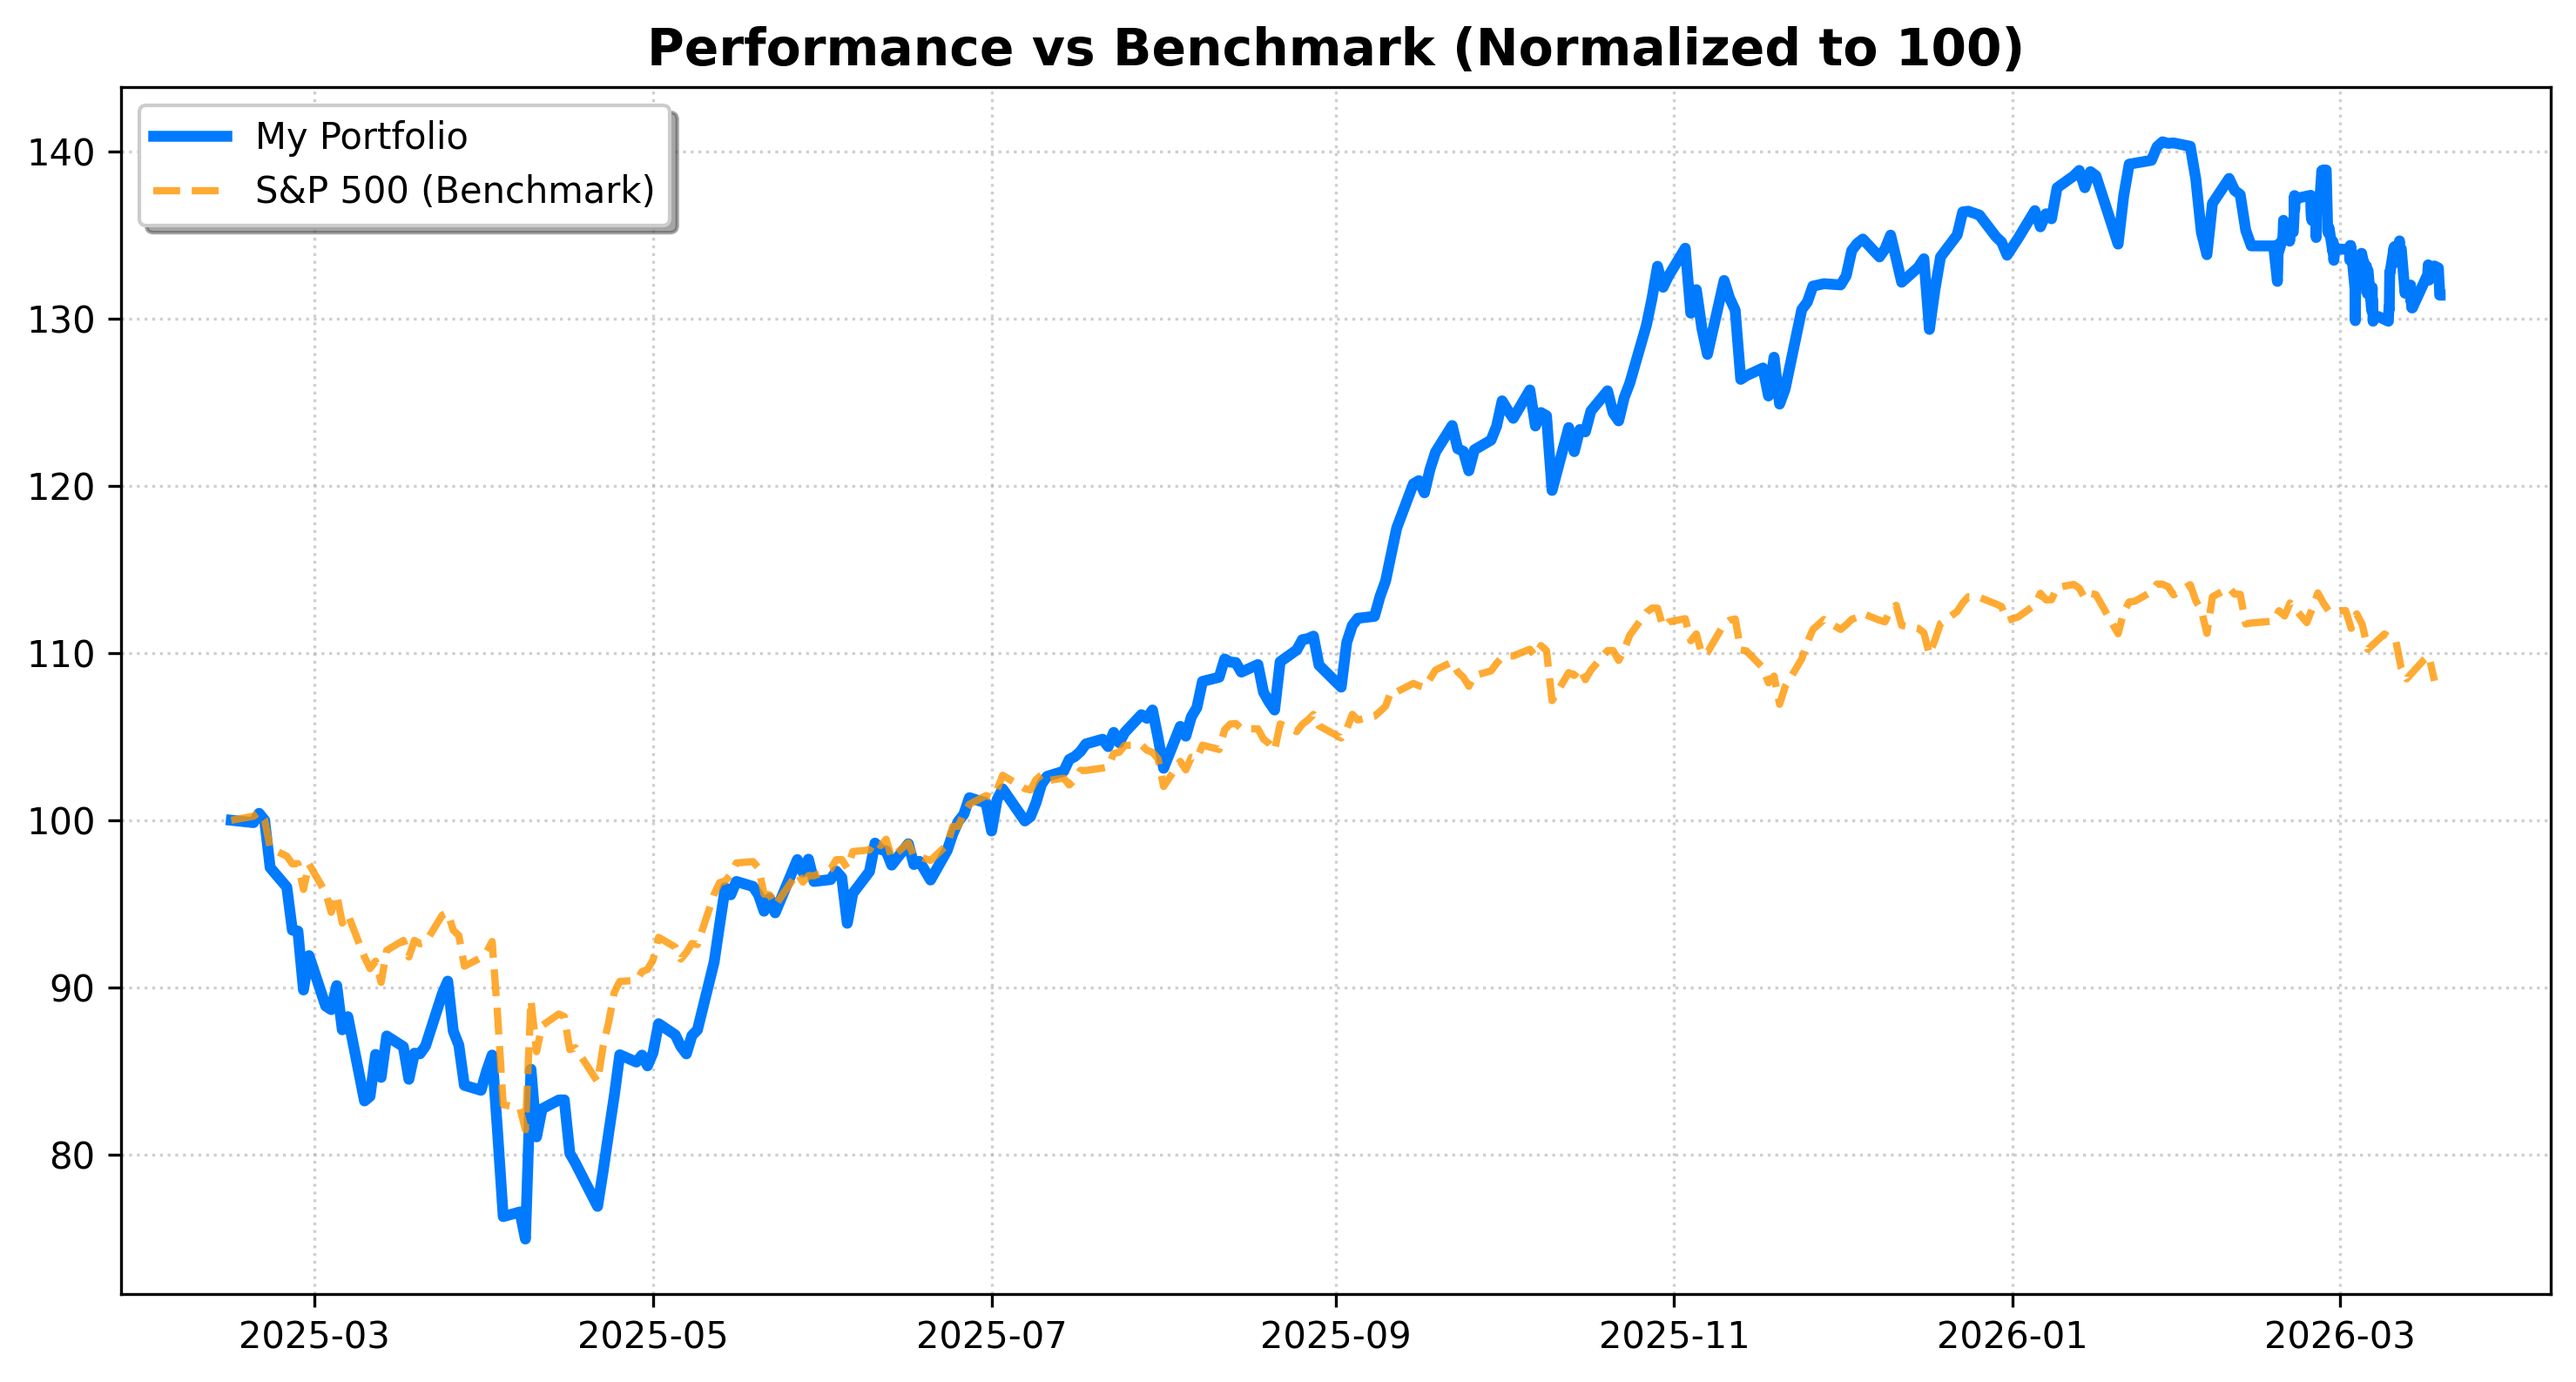
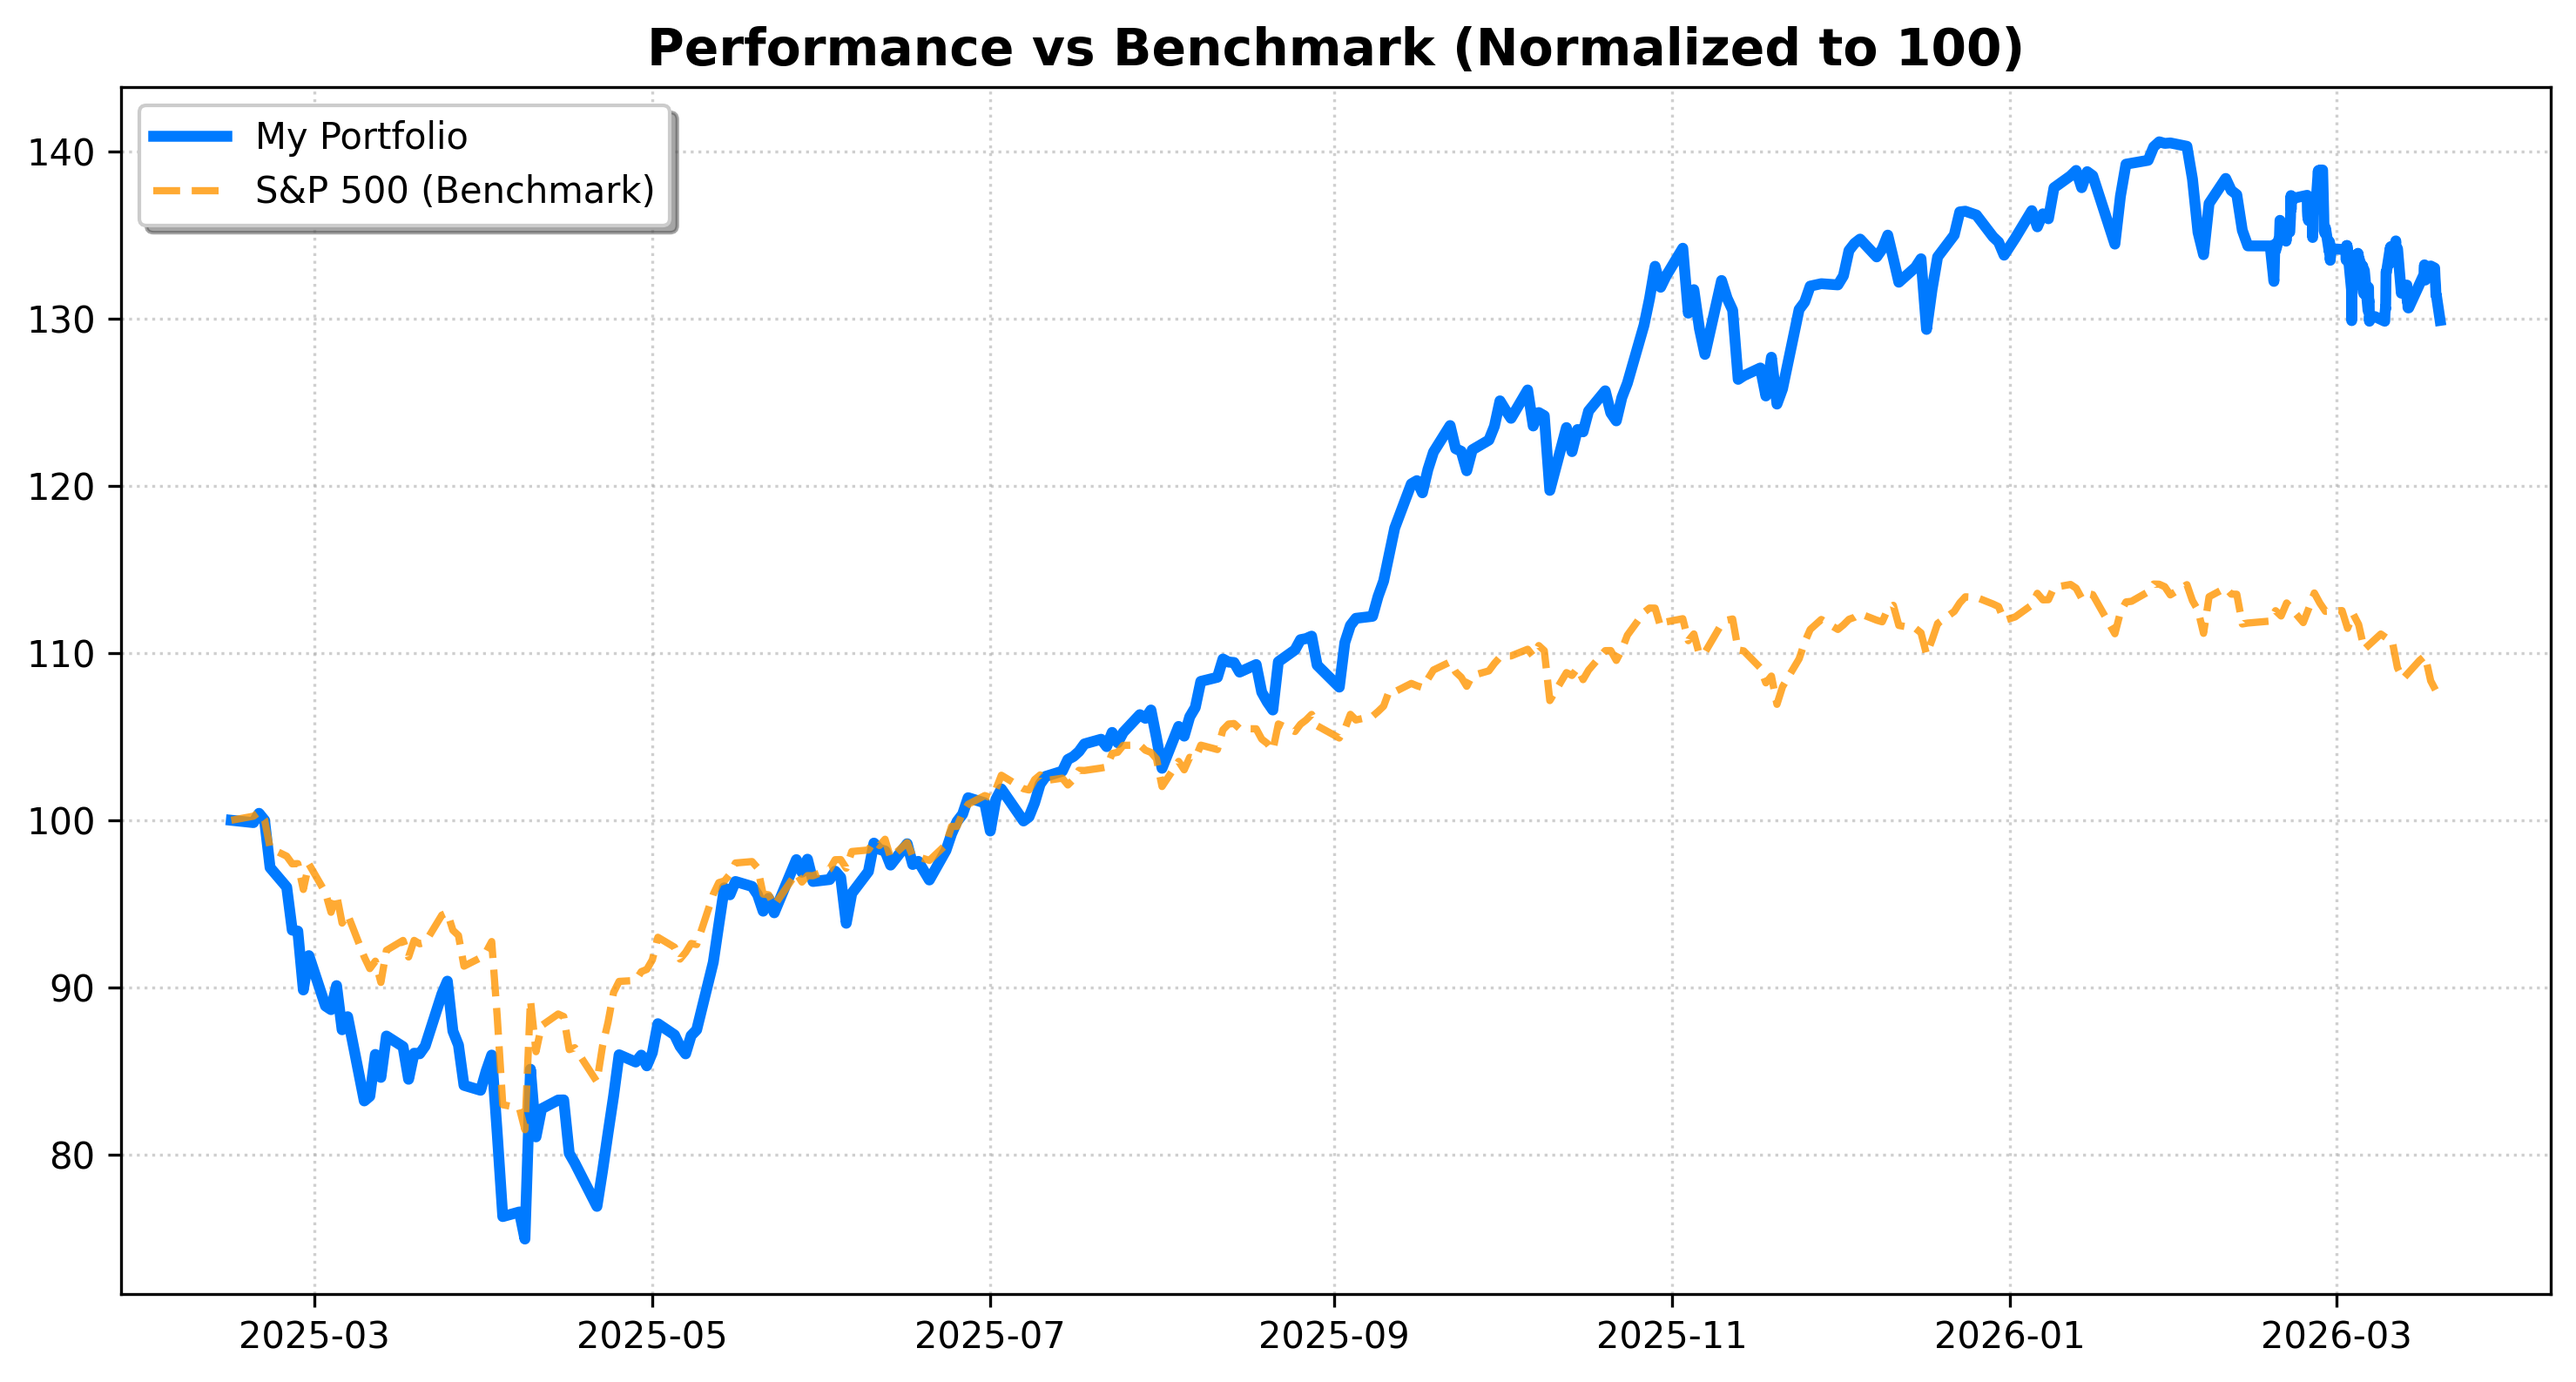
System Run: Analytics & Archive Update [skip ci]

diff --git a/README.md b/README.md
@@ -1,23 +1,23 @@
 # 📊 Portfolio Dashboard | מעקב תיק השקעות
-**Last Update:** 19/03/2026 00:37 | **USD/ILS:** ₪3.112
+**Last Update:** 19/03/2026 16:54 | **USD/ILS:** ₪3.122
 
 ## 💰 Portfolio Summary | סיכום התיק
 | Metric | Value | נתון |
 | :--- | :--- | :--- |
-| **Current Value** | `₪162,837` | **שווי נוכחי** |
-| **Total Invested** | `₪130,711` | **סך השקעה** |
-| **Total Profit/Loss** | `+24.58%` (₪32,127) | **רווח/הפסד כולל** |
-| **Daily Change** | `-1.31%` | **שינוי יומי** |
+| **Current Value** | `₪161,444` | **שווי נוכחי** |
+| **Total Invested** | `₪131,101` | **סך השקעה** |
+| **Total Profit/Loss** | `+23.14%` (₪30,342) | **רווח/הפסד כולל** |
+| **Daily Change** | `-2.44%` | **שינוי יומי** |
 
 ## 📜 Holdings | פירוט החזקות
 | Ticker | Shares | Avg. Cost | Current Price | P&L % | P&L ILS |
 | :--- | :--- | :--- | :--- | :--- | :--- |
-| GOOGL | 45 | $181.15 | $307.73 | 🟢 +69.88% | ₪17,727 |
-| ASML | 4 | $934.51 | $1,355.00 | 🟢 +45.00% | ₪5,235 |
-| XOM | 2 | $126.08 | $157.58 | 🟢 +24.98% | ₪196 |
-| NVDA | 57 | $148.62 | $180.35 | 🟢 +21.35% | ₪5,629 |
-| TSLA | 20 | $436.45 | $392.85 | 🔴 -9.99% | ₪-2,714 |
-| VOO | 24 | $527.38 | $608.43 | 🟢 +15.37% | ₪6,054 |
+| GOOGL | 45 | $181.15 | $304.90 | 🟢 +68.31% | ₪17,383 |
+| ASML | 4 | $934.51 | $1,349.85 | 🟢 +44.44% | ₪5,186 |
+| XOM | 2 | $126.08 | $157.46 | 🟢 +24.89% | ₪196 |
+| NVDA | 57 | $148.62 | $178.13 | 🟢 +19.86% | ₪5,251 |
+| TSLA | 20 | $436.45 | $380.69 | 🔴 -12.78% | ₪-3,481 |
+| VOO | 24 | $527.38 | $604.91 | 🟢 +14.70% | ₪5,808 |
 
 ## 📈 Charts | גרפים
 ![Performance](./data_hub/portfolio_performance.png)
